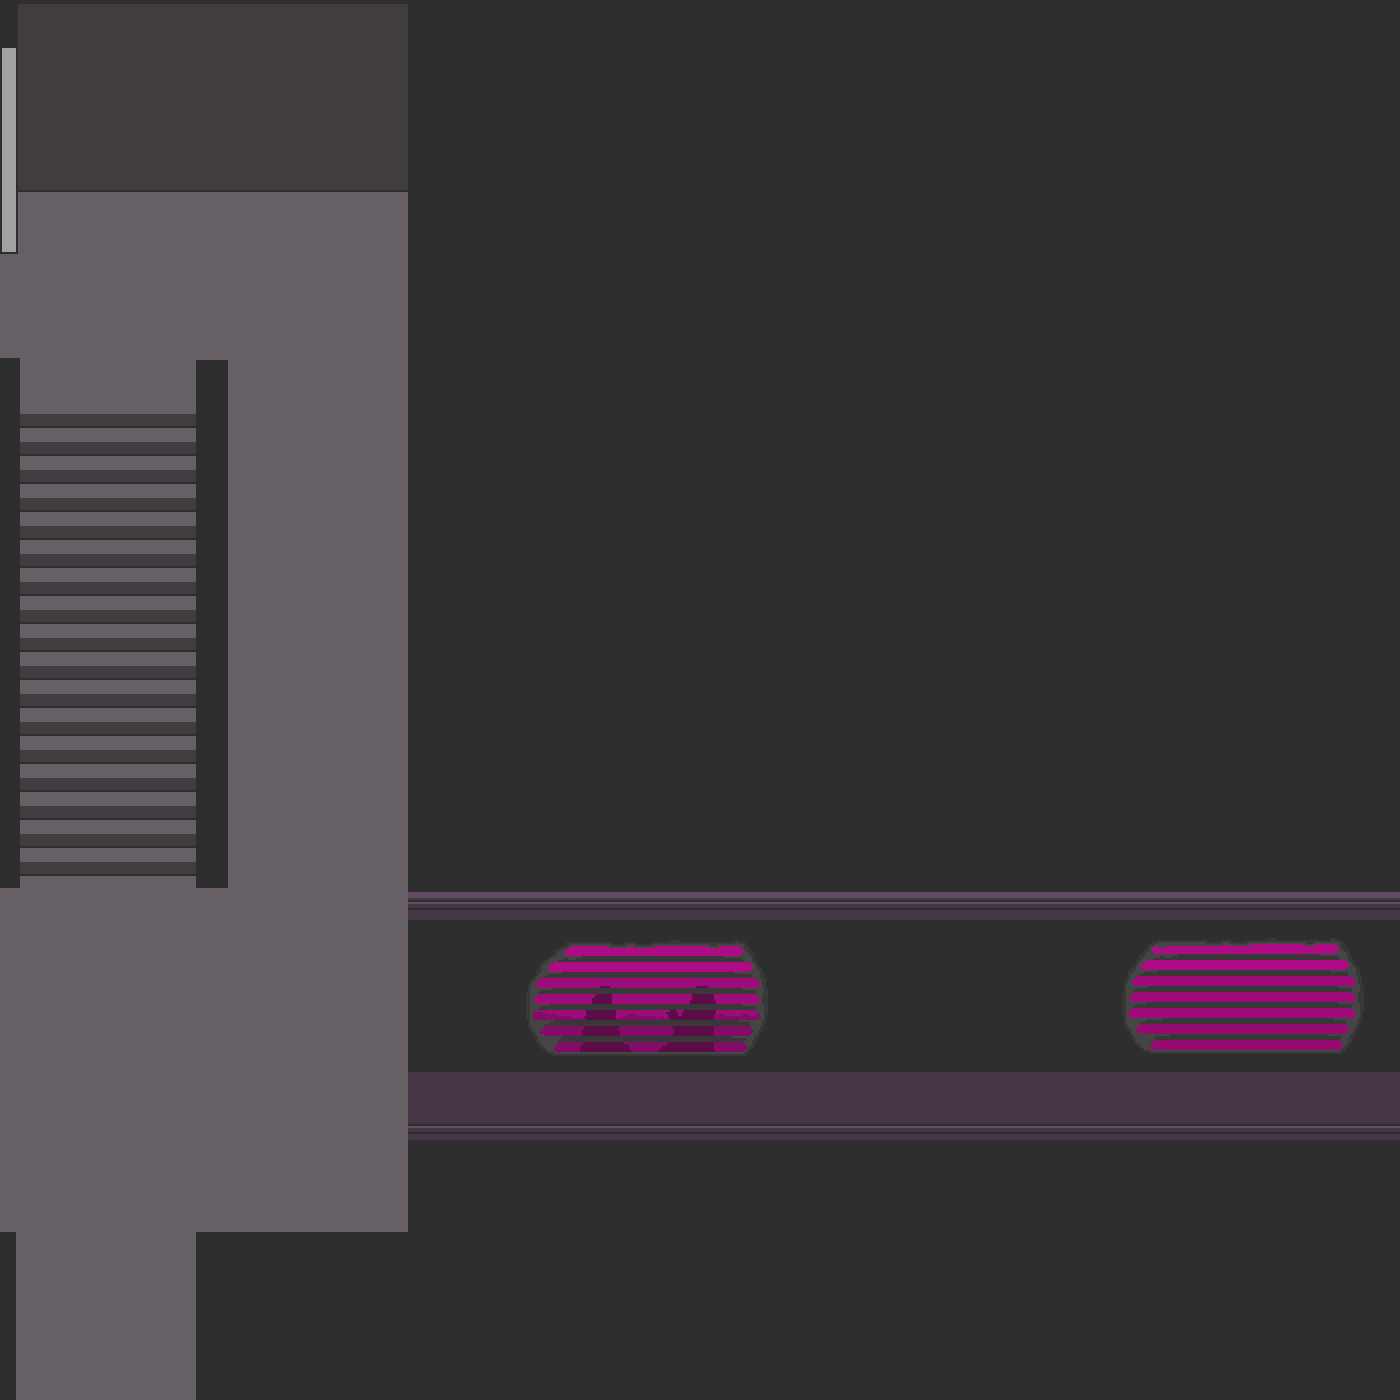
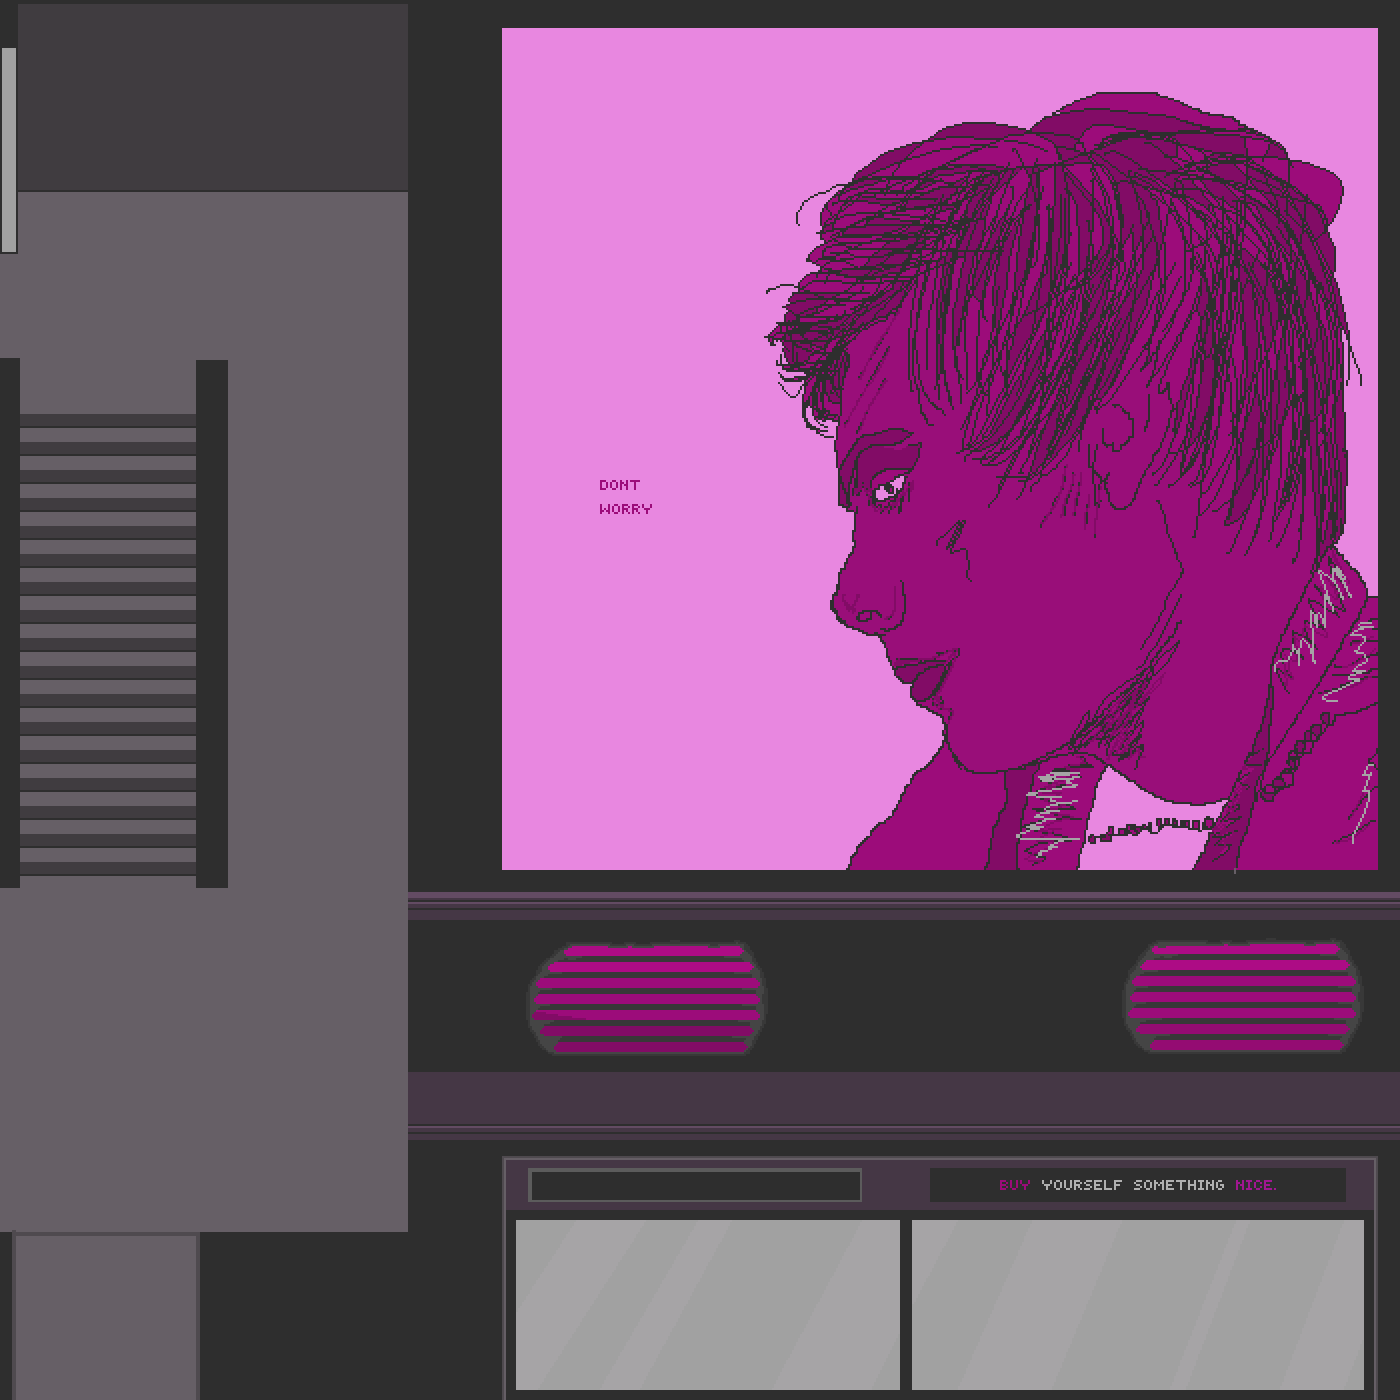
updated graphics, added some more advert text

diff --git a/world.go b/world.go
@@ -123,8 +123,12 @@ func (w *world) init() {
 
 	}})
 	w.rooms = append(w.rooms, &room{path: "/street-layer-background-top", offset: pixel.V(0, -1400), topLayer: true, walls: streetCollidables})
-	w.rooms = append(w.rooms, &room{path: "/street-base", offset: pixel.V(1400, -1400)})
-	w.rooms = append(w.rooms, &room{path: "/street-base", offset: pixel.V(-1400, -1400)})
+
+	w.rooms = append(w.rooms, &room{path: "/street-right-layer-background-bottom", offset: pixel.V(1400, -1400)})
+	w.rooms = append(w.rooms, &room{path: "/street-right-layer-background-top", offset: pixel.V(1400, -1400), topLayer: true})
+
+	w.rooms = append(w.rooms, &room{path: "/street-left-layer-background-bottom", offset: pixel.V(-1400, -1400)})
+	w.rooms = append(w.rooms, &room{path: "/street-left-layer-background-top", offset: pixel.V(-1400, -1400), topLayer: true})
 
 	for _, room := range w.rooms {
 		room.init(room.path)

diff --git a/advert.go b/advert.go
@@ -19,6 +19,10 @@ var advertMessages = []string{
 	"By the year 2006, the music known today as the blues will exist only in the classical records department of your local public library.",
 	"You're gonna carry that weight.",
 	"Eat, Sleep, Buy Stuff, Dance.",
+	"Hello World!",
+	"Ship it!",
+	"<3 <3 <3",
+
 }
 
 type advert struct {
